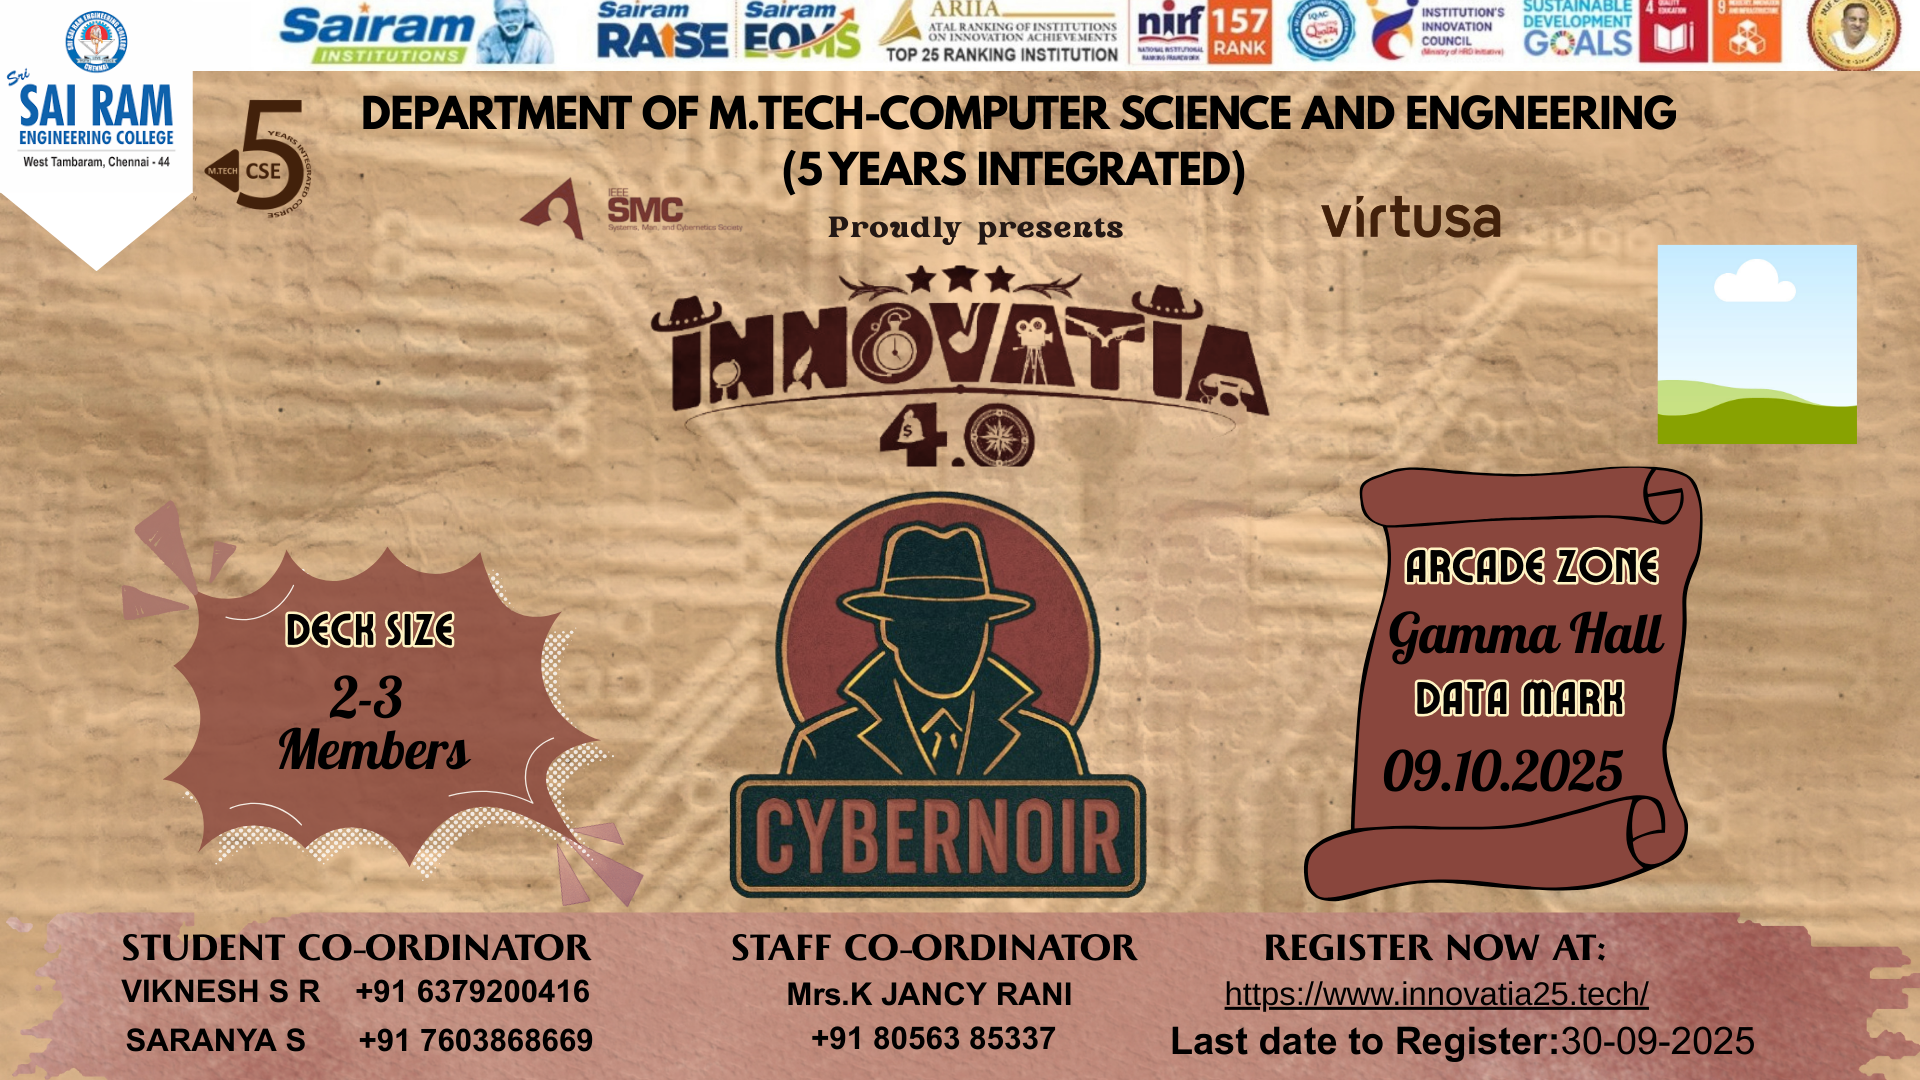
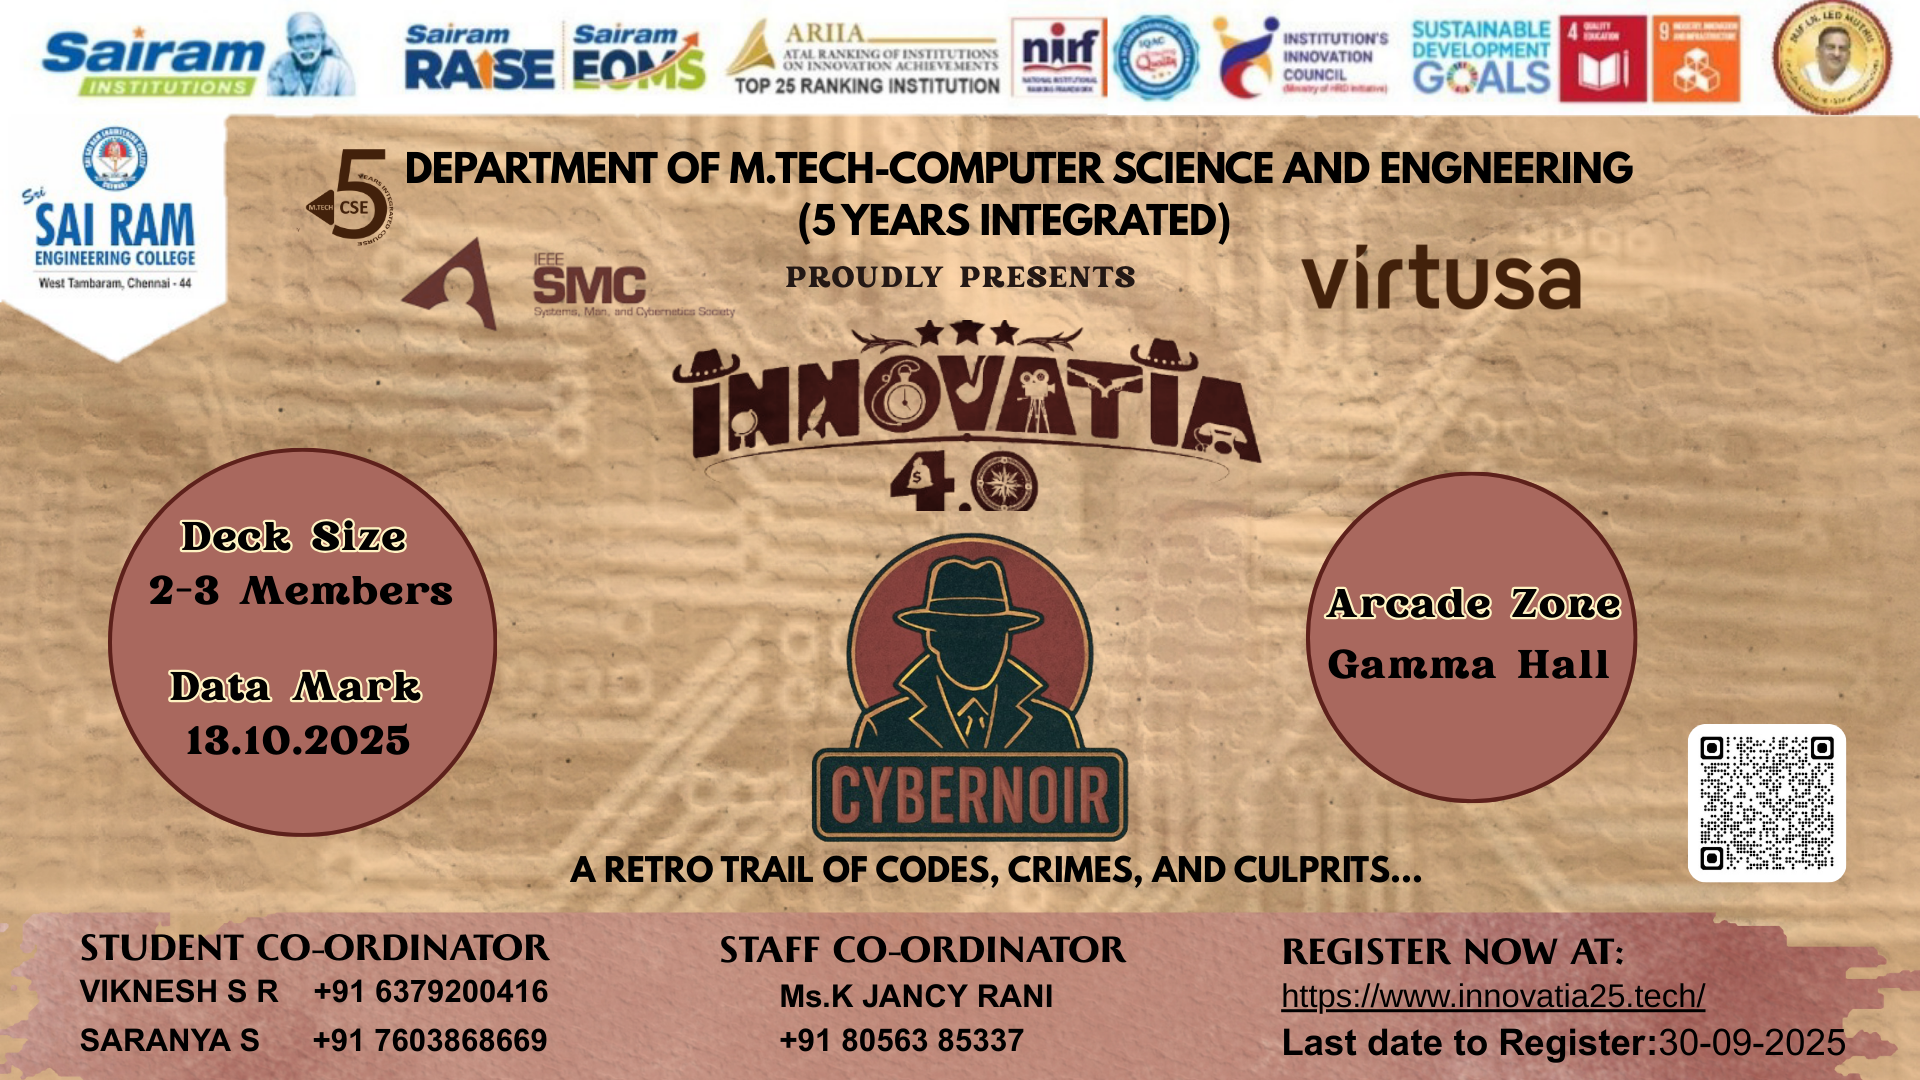
Final changes

diff --git a/src/pages/Team.jsx b/src/pages/Team.jsx
@@ -15,28 +15,28 @@ const Team = () => {
       designation: "Student - 4th Year",
       image: "/team/Aadithya.png",
       github: "https://github.com/AadithyaSJ",
-      linkedIn: "https://www.linkedin.com/in/s-j-aadithya-80a551257/",
+      linkedIn: "https://www.linkedin.com/in/aadithyasj/",
     },
     {
       name: "Sairaghav S",
       designation: "Student - 4th Year",
       image: "/team/sairaghav.png",
       github: "https://github.com/Sairaghav-007",
-      linkedIn: "https://www.linkedin.com/in/s-j-aadithya-80a551257/",
+      linkedIn: "https://www.linkedin.com/in/sai-raghav-65a660262/",
     },
     {
       name: "Micheal Rohin",
       designation: "Student - 3rd Year",
       image: "/team/micheal.png",
       github: "https://github.com/MICHAELROHIN",
-      linkedIn: "https://www.linkedin.com/in/s-j-aadithya-80a551257/",
+      linkedIn: "https://www.linkedin.com/in/michael-rohin/",
     },
     {
       name: "Koushik Babu",
       designation: "Student - 4th Year",
       image: "/team/koushik.png",
       github: "https://github.com/AadithyaSJ",
-      linkedIn: "https://www.linkedin.com/in/s-j-aadithya-80a551257/",
+      linkedIn: "https://www.linkedin.com/in/koushik-babu/",
     },
     // ... repeat
   ];

diff --git a/src/pages/EventBrochure.jsx b/src/pages/EventBrochure.jsx
@@ -7,8 +7,8 @@ import Header from "../components/Headers";
 const events = [
   { key: "paper-powerhouse", name: "Paper Powerhouse", brochure: "/events/PAPER-POWERHOUSE-BROCHURE.png" },
   { key: "past-to-profit", name: "Past TO Profit", brochure: "/events/past-to-profit-brochure.png" },
-  { key: "golden-blueprint", name: "The Golden Blueprint", brochure: "/events/The-Golden-Blueprint-Brochure.jpg" },
-  { key: "cybernoir", name: "CYBERNOIR", brochure: "/events/PAPER-POWERHOUSE-BROCHURE.png" },
+  { key: "golden-blueprint", name: "The Golden Blueprint", brochure: "/events/golden-blueprint-brochure.png" },
+  { key: "cybernoir", name: "CYBERNOIR", brochure: "/events/CYBERNOIR-BROCHURE.png" },
   { key: "retro-code-chronicles", name: "Retro Code Chronicles", brochure: "/events/retro-code-chronicles-brochure.png" },
   { key: "vintage-webverse", name: "Vintage Webverse", brochure: "/events/vintage-webverse-brochure.png" },
   { key: "Other", name: "Other Event", brochure: "/brochure-other-event.png" },

diff --git a/src/pages/Welcome.jsx b/src/pages/Welcome.jsx
@@ -3,7 +3,7 @@ import NixieCountdown from "../components/NixieCountdown.jsx";
 import SDG from "../components/SDG.jsx";
 
 export default function Welcome() {
-  const target = new Date("2025-10-09T00:00:00");
+  const target = new Date("2025-10-13T00:00:00");
 
   return (
     <main className="min-h-dvh w-full relative overflow-hidden">

diff --git a/src/components/Timeline.jsx b/src/components/Timeline.jsx
@@ -67,7 +67,7 @@ export function EventTimeline() {
       <RetroTimeline
         title="Offline Schedule"
         agenda={offlineAgenda}
-        extra="October 09, 2025"
+        extra="October 13, 2025"
       />
     </section>
   );
